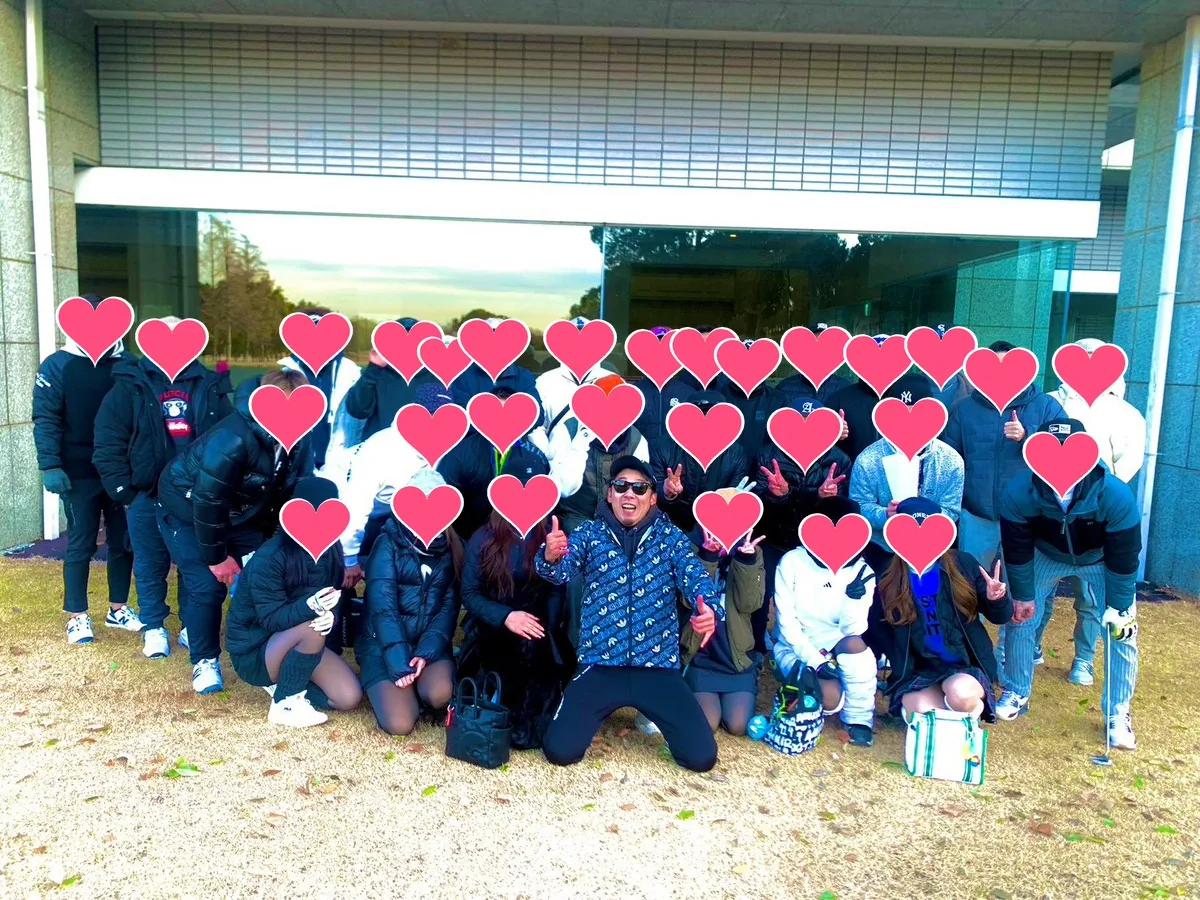
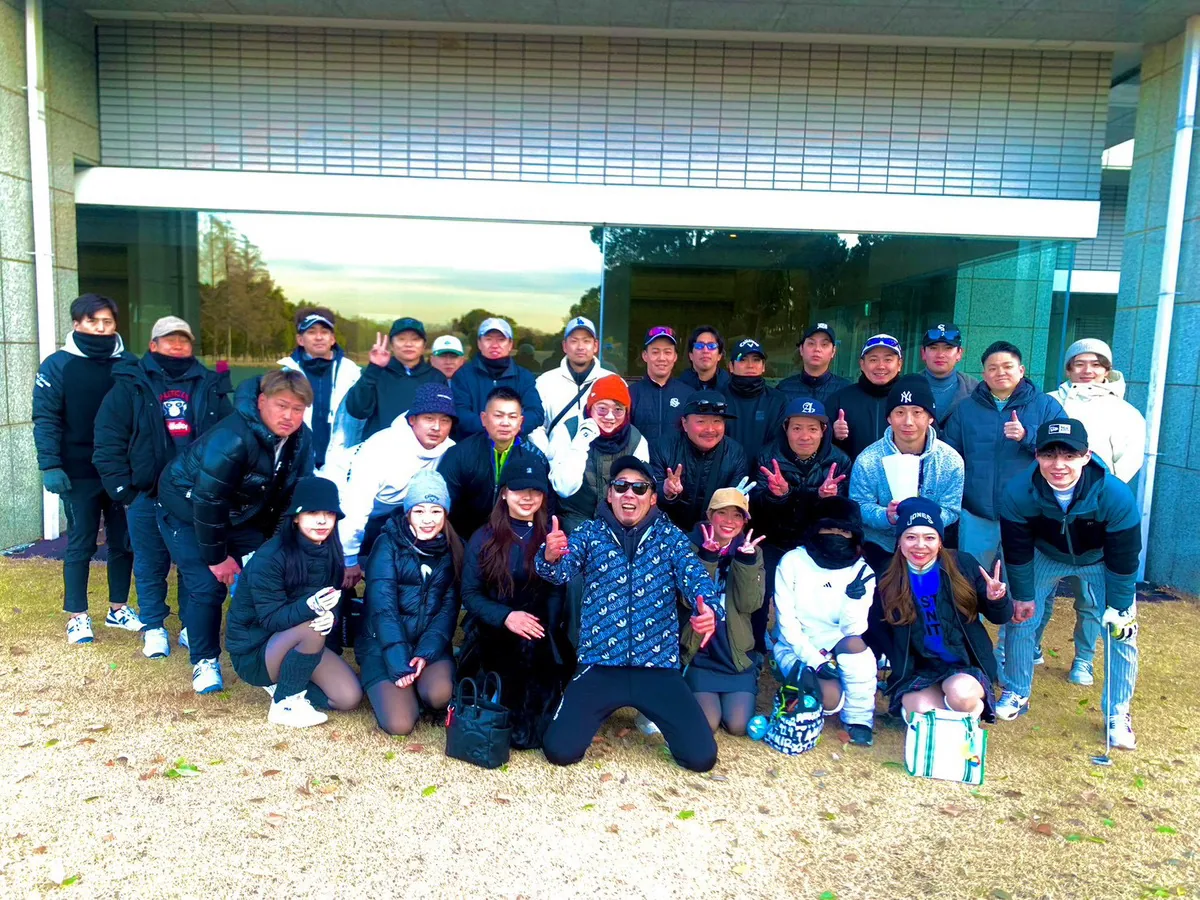
フォトギャラリーをハートなしの元画像に差し替え

Changed region(s): [[0.185, 0.3422, 0.9558, 0.6533], [0.0308, 0.3111, 0.185, 0.4356]]

diff --git a/index.html b/index.html
@@ -362,9 +362,9 @@
     <h2 class="sec-head"><span class="sec-en">Gallery</span><span class="sec-jp">フォトギャラリー</span></h2>
     <p class="sec-lead" style="text-align:center;margin-top:0;margin-bottom:2.4rem">これまでの開催の様子です。</p>
     <ul class="gallery">
-      <li><img src="images/gallery/gallery-01-winter.webp?v=20261002" alt="冬の大会で、クラブハウス前に参加者が集まった集合写真" width="1200" height="900" loading="lazy"></li>
-      <li><img class="gallery-spring" src="images/gallery/gallery-02-spring.webp?v=20261002" alt="春の大会で、ツツジの咲くコースに参加者が集まった集合写真" width="554" height="508" loading="lazy"></li>
-      <li><img src="images/gallery/gallery-03-summer.webp?v=20261002" alt="夏の大会で、青空の下に参加者が集まった集合写真" width="1200" height="900" loading="lazy"></li>
+      <li><img src="images/gallery/gallery-01-winter.webp?v=20261009" alt="冬の大会で、クラブハウス前に参加者が集まった集合写真" width="1200" height="900" loading="lazy"></li>
+      <li><img class="gallery-spring" src="images/gallery/gallery-02-spring.webp?v=20261009" alt="春の大会で、ツツジの咲くコースに参加者が集まった集合写真" width="554" height="508" loading="lazy"></li>
+      <li><img src="images/gallery/gallery-03-summer.webp?v=20261009" alt="夏の大会で、青空の下に参加者が集まった集合写真" width="1200" height="900" loading="lazy"></li>
     </ul>
   </div>
 </section>
